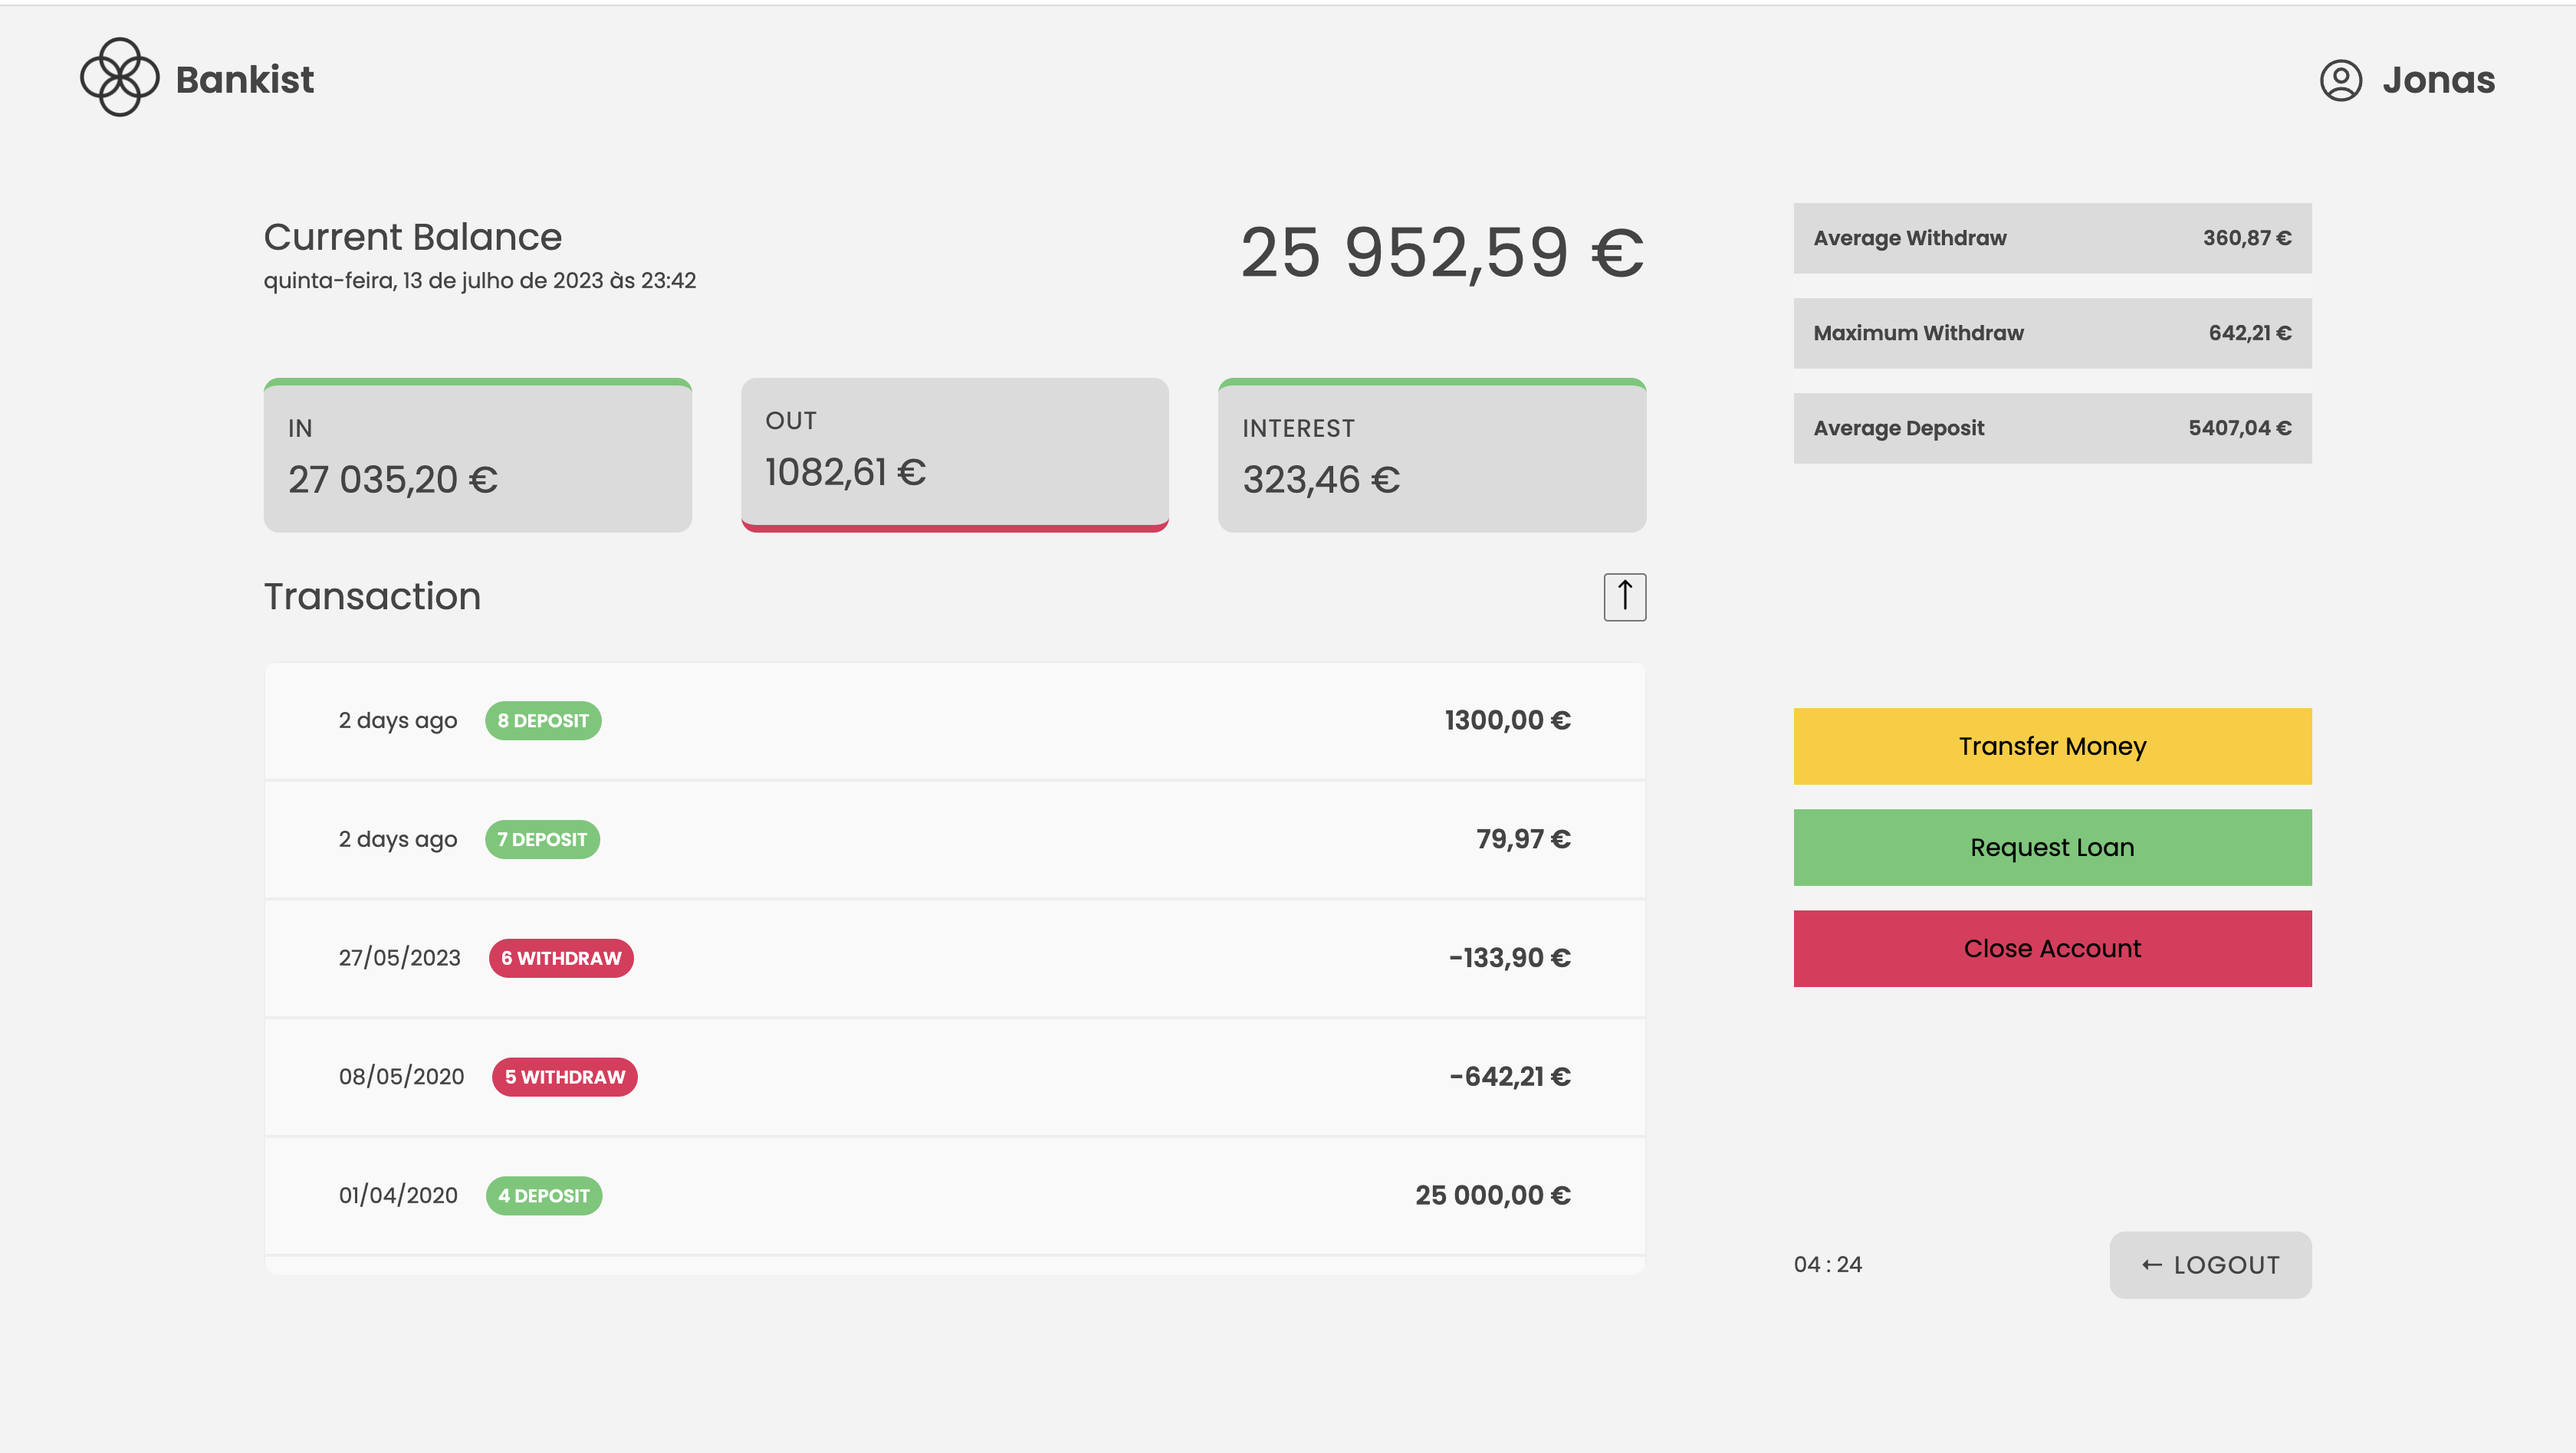
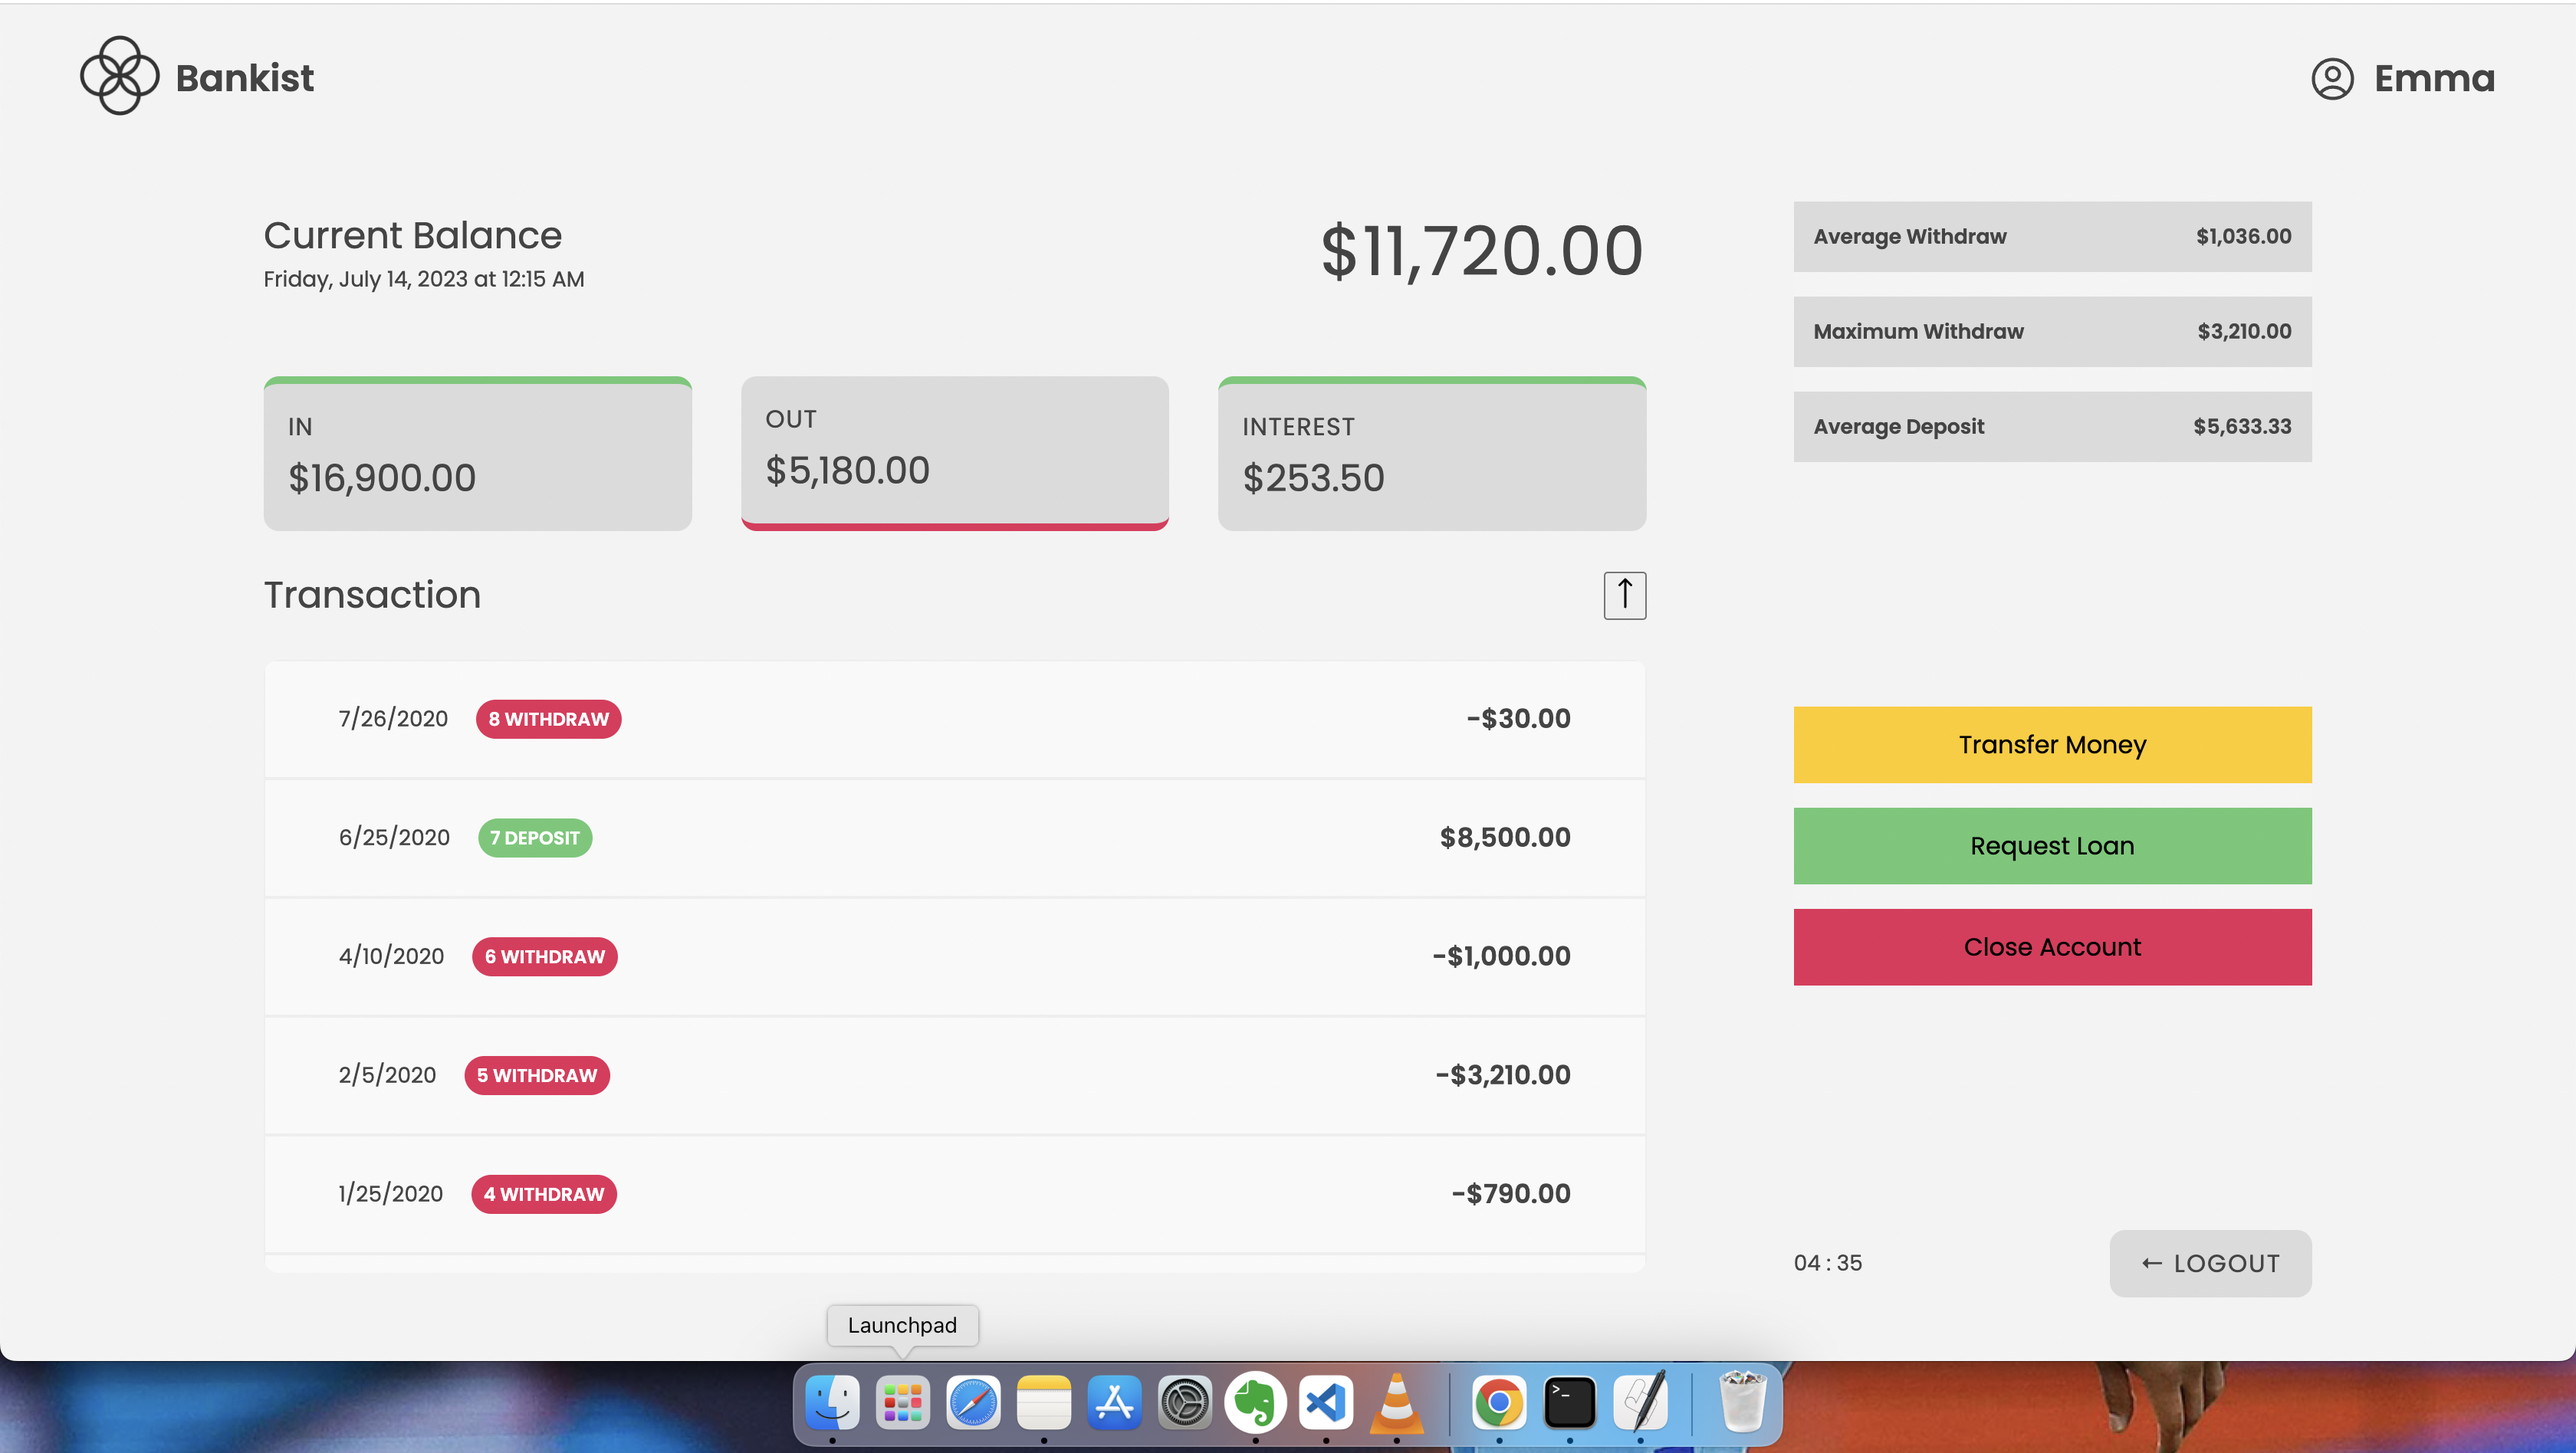
Update Screenshot

diff --git a/index.js b/index.js
@@ -13,7 +13,7 @@ const getloggedInUser = () => {
 getloggedInUser();
 
 const account1 = {
-  owner: "Jonas Schmedtmann",
+  owner: "Benjamin Thompson",
   transactions: [200, 455.23, -306.5, 25000, -642.21, -133.9, 79.97, 1300],
   interestRate: 1.2, // %
   pin: 1111,
@@ -32,7 +32,7 @@ const account1 = {
 };
 
 const account2 = {
-  owner: "Jessica Davis",
+  owner: "Emma Johnson",
   transactions: [5000, 3400, -150, -790, -3210, -1000, 8500, -30],
   interestRate: 1.5,
   pin: 2222,
